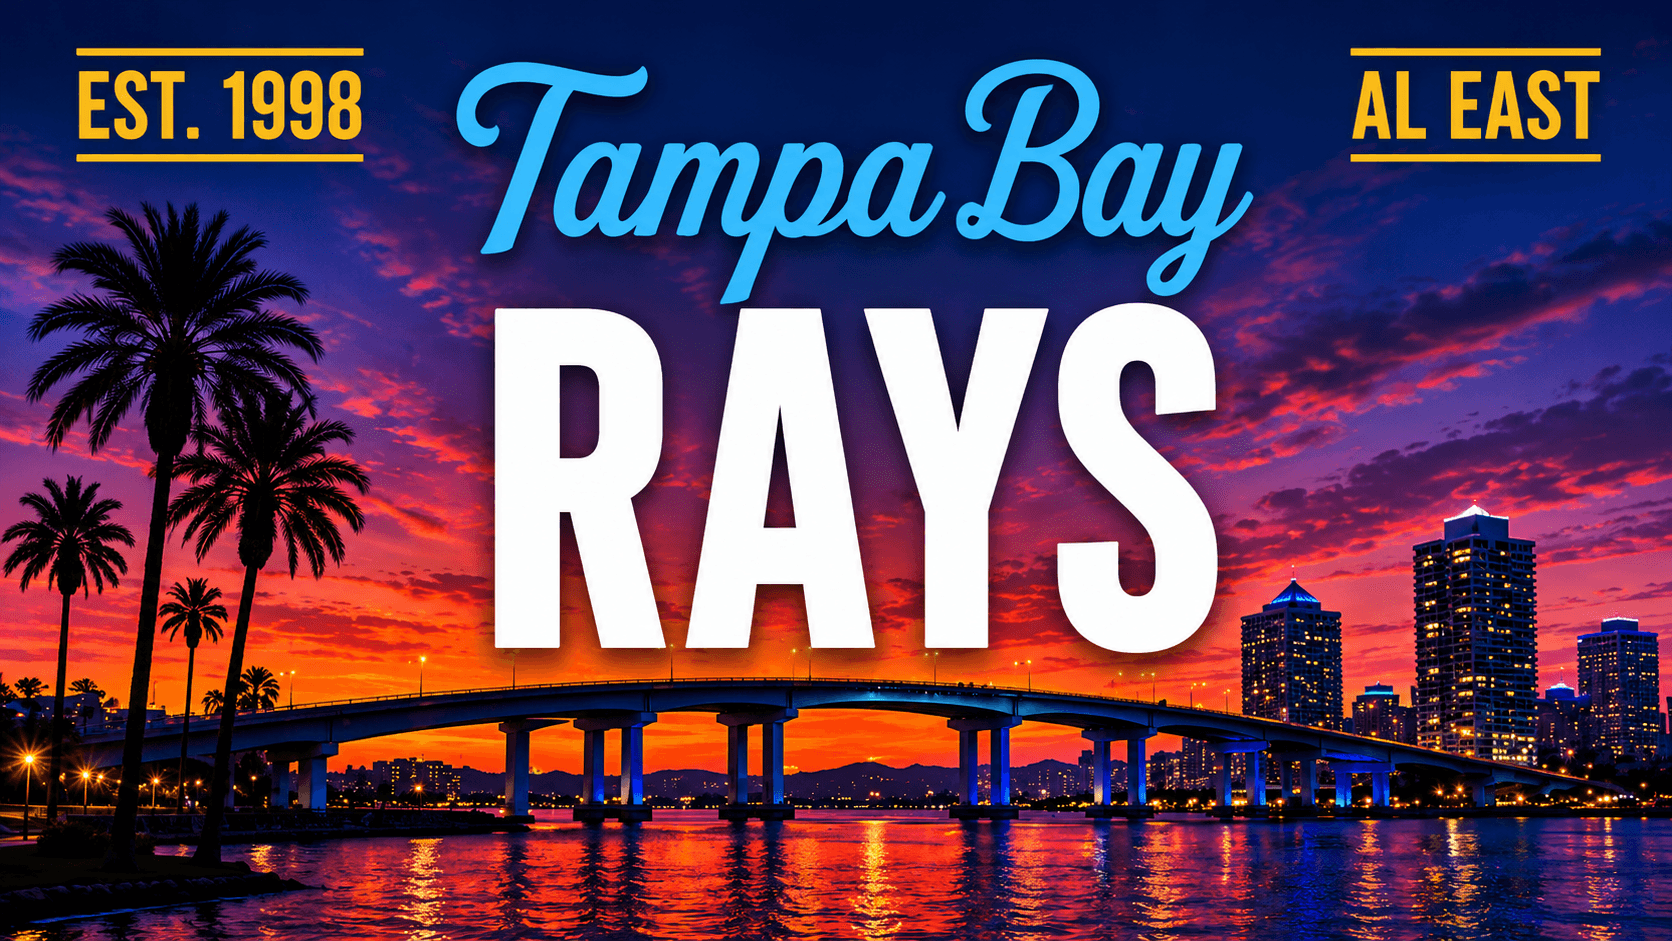
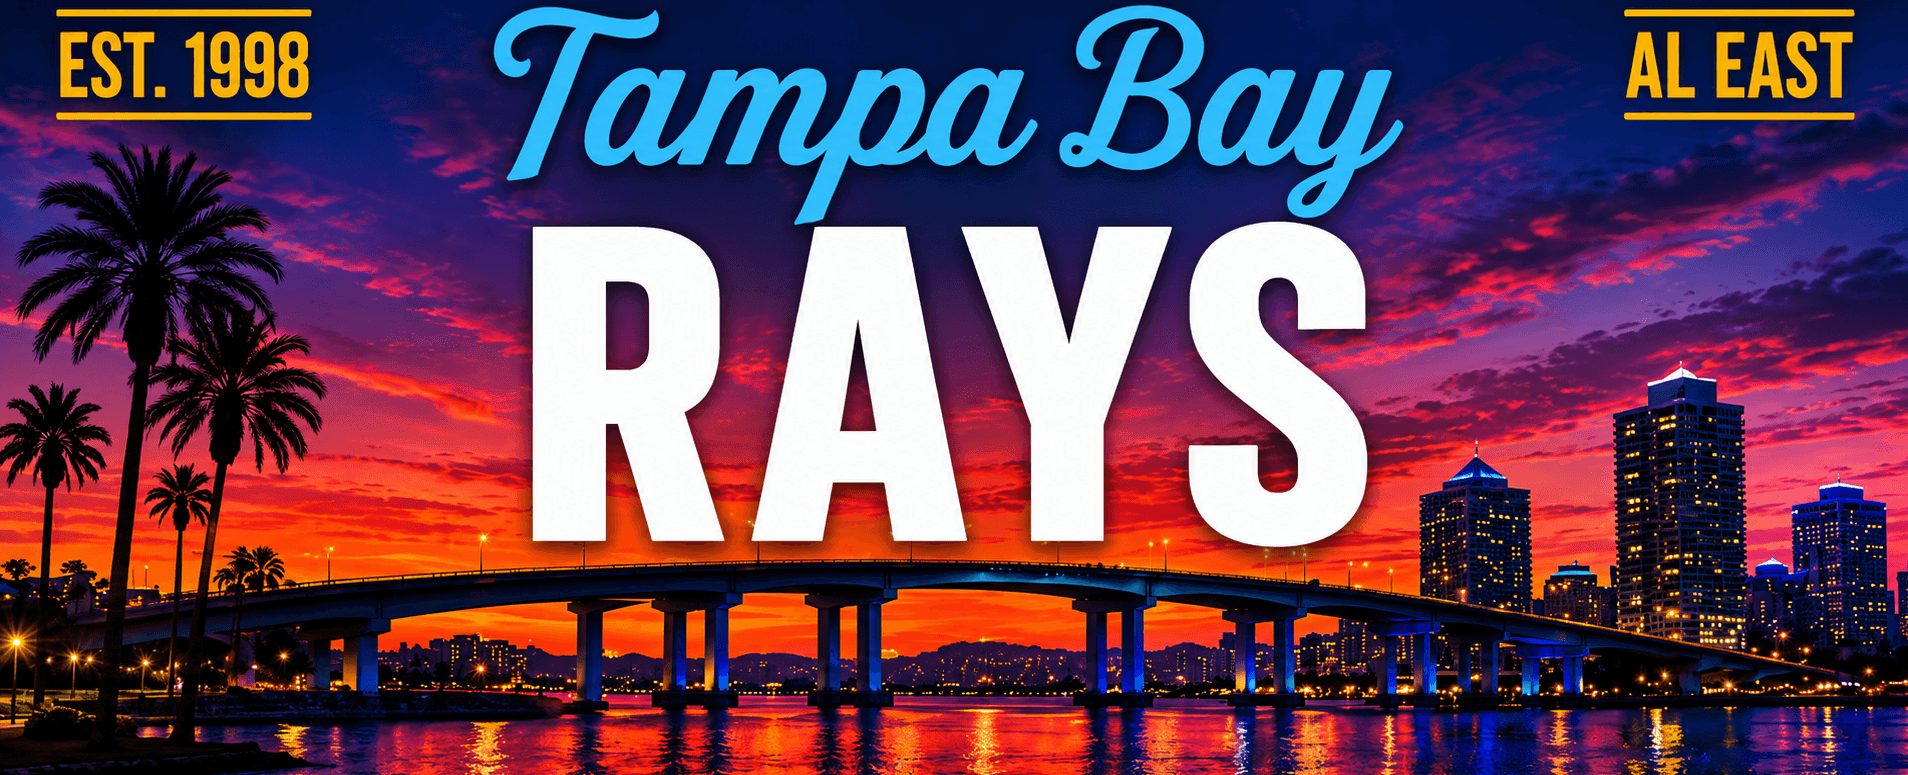
Give every team header the same height
The banner sat in a plain box at h-auto, so the rendered height was
whatever the source art's aspect ratio made it. Most cards are 2.4:1, but
a handful came in near 16:9, and those teams' headers stood ~130px taller
than the rest for the same page width — Blue Jays, Giants and Rays next to
Dodgers, White Sox and Angels.

The box is now a fixed 2.4:1 and the image covers it, so the shape of the
file no longer decides the height. The crop is anchored to the top: the
est./division badges and the team name are baked into the art up there, and
a centered crop cuts straight through them, where what it takes off the
bottom instead is skyline foreground.

New 1942x809 art for the three worst offenders lands with them, so for
those the crop is a no-op rather than something to absorb. Four cards
(Phillies, Cubs, Mariners, and Rays, whose white border trimmed 34px off
the import) sit 2-4% wider than the box and lose that much off the sides,
which is not visible. Athletics is the one still meaningfully off at
1.98:1; it loses lower skyline and keeps its badges.

diff --git a/app/teams/[slug]/TeamPageClient.tsx b/app/teams/[slug]/TeamPageClient.tsx
@@ -340,7 +340,15 @@ export function TeamPageClient({
                 </h1>
 
                 <div className="relative mt-4">
-                  <div className="overflow-hidden rounded-xl shadow-[0_18px_44px_rgba(0,0,0,0.45)] ring-1 ring-white/15">
+                  {/* Every header is the same 2.4:1 box no matter what shape the
+                      source art is, so no team's banner towers over the rest. The
+                      handful of cards that come in taller than that are cropped to
+                      fit rather than shrunk — replacing those files with 2.4:1 art
+                      is what makes the crop a no-op. The crop is anchored to the top
+                      because the est./division badges and the team name are baked in
+                      up there; a centered one cuts straight through them, and what
+                      it takes off the bottom instead is skyline foreground. */}
+                  <div className="aspect-[1942/809] overflow-hidden rounded-xl shadow-[0_18px_44px_rgba(0,0,0,0.45)] ring-1 ring-white/15">
                     <Image
                       src={publicAsset(`/team-banners/${team.slug}.png`)}
                       alt={`${team.city} ${team.name} — established ${team.established}, ${team.league} ${team.division}`}
@@ -348,7 +356,7 @@ export function TeamPageClient({
                       height={TEAM_BANNERS[team.slug].height}
                       priority
                       sizes="(min-width: 1152px) 1104px, 100vw"
-                      className="h-auto w-full"
+                      className="h-full w-full object-cover object-top"
                     />
                   </div>
                   <Image

diff --git a/lib/teamBanners.ts b/lib/teamBanners.ts
@@ -8,8 +8,8 @@ export const TEAM_BANNERS: Record<string, { width: number; height: number }> = {
   "orioles": { width: 1942, height: 809 },
   "red-sox": { width: 1942, height: 809 },
   "yankees": { width: 1942, height: 809 },
-  "rays": { width: 1672, height: 941 },
-  "blue-jays": { width: 1610, height: 879 },
+  "rays": { width: 1908, height: 775 },
+  "blue-jays": { width: 1942, height: 809 },
   "white-sox": { width: 1942, height: 809 },
   "guardians": { width: 1942, height: 809 },
   "tigers": { width: 1942, height: 809 },
@@ -34,5 +34,5 @@ export const TEAM_BANNERS: Record<string, { width: number; height: number }> = {
   "rockies": { width: 1942, height: 809 },
   "dodgers": { width: 1942, height: 809 },
   "padres": { width: 1942, height: 809 },
-  "giants": { width: 1643, height: 879 },
+  "giants": { width: 1942, height: 809 },
 };
